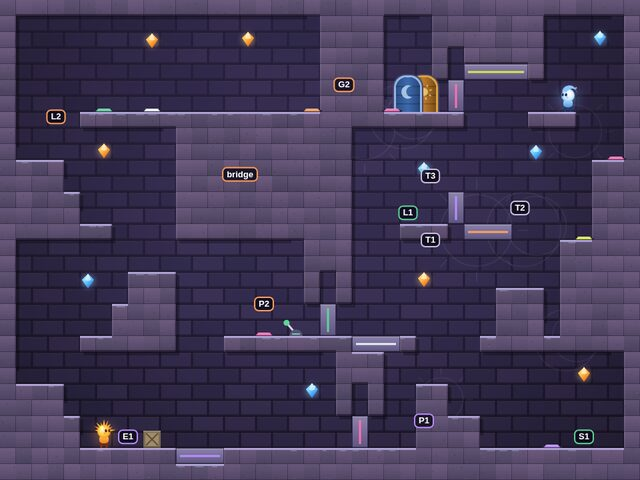
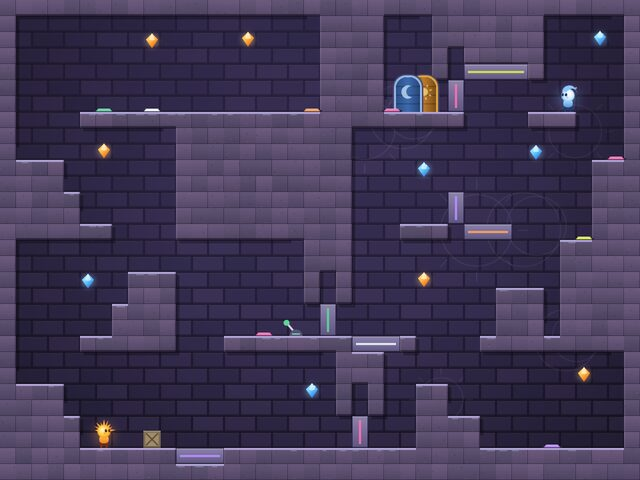
Level pictures: drop first-pass labels, regenerate 14, 19 and 26
tools/capture/index.html still tagged rooms 14, 19 and 26 with labels from
the first-pass rooms (E1, P1, bridge, refuge...), which point at nothing in
the rebuilt rooms. LABELS is now empty. docs/img/level-14/19/26.jpg are
regenerated with tools/capture.sh (CHROME=/usr/bin/chromium), and the three
-steps pictures of rooms that no longer exist are deleted, with their links
in docs/level-design.md.

diff --git a/tools/capture/index.html b/tools/capture/index.html
@@ -6,14 +6,9 @@ import { LEVELS } from '/shared/levels.js';
 import { buildLevel, createState, step, TS } from '/shared/sim.js';
 const q = new URLSearchParams(location.search);
 const n = +q.get('level'), k = q.has('state') ? +q.get('state') : -1;
-const LABELS = {
-  14: [[8, 27.3, 'E1', 0], [26.5, 26.3, 'P1', 0], [36.5, 27.3, 'S1', 1], [25.5, 13.3, 'L1', 1], [16.5, 19.0, 'P2', 2],
-       [21.5, 5.3, 'G2', 2], [15, 10.9, 'bridge', 2], [3.5, 7.3, 'L2', 2], [26.9, 15.0, 'T1', -1], [32.5, 13.0, 'T2', -1], [26.9, 11.0, 'T3', -1]],
-  19: [[5, 27.3, 'E0', 0], [25.5, 26.3, 'P0', 0], [28.5, 26.3, 'P1', 1], [7.5, 16.3, 'P0b', 0], [18.5, 13.3, 'G1', 1],
-       [25, 17.0, 'P2', 1], [31.5, 13.3, 'G2', 1], [11, 12.9, 'ledge', -1]],
-  26: [[11.5, 7.3, 'B', 1], [17.5, 7.3, 'A', 0], [21.5, 5.3, 'GW', 2], [33.5, 7.3, 'LR', 3], [27.5, 13.3, 'PF', 2],
-       [32, 21.0, 'E', 1], [34.5, 11.8, 'GX', 3], [12, 23.6, 'bridge 1', 0], [23.5, 23.6, 'bridge 2', 0], [17.5, 24.8, 'refuge', -1]],
-};
+// Optional tags per room: LABELS[n] = [[x, y, text, group], ...] in tiles (group -1 = grey).
+// The first-pass tags for rooms 14, 19 and 26 were removed on Nov 17, 2026: those rooms were rebuilt.
+const LABELS = {};
 const L = buildLevel(LEVELS[n - 1], n - 1);
 if (q.has('grid')) {
   const all = await (await fetch('/_cap/states.json')).json();

diff --git a/docs/playtest-2026-11-17.md b/docs/playtest-2026-11-17.md
@@ -116,9 +116,10 @@ the loser's line match. Log `tools/playtest/out/runner-browser.log`.
 **8. Stale labels on three regenerated level pictures.** `tools/capture/index.html` still has
 `LABELS` for the first-pass rooms 14, 19 and 26 (E1, P1, bridge, refuge and so on), so
 `docs/img/level-14.jpg`, `level-19.jpg` and `level-26.jpg` carry tags that point at nothing in the
-current rooms. `docs/img/level-14-steps.jpg`, `level-19-steps.jpg` and `level-26-steps.jpg` are
-from the old rooms too (only `docs/level-design.md`, already marked stale, links them). I left
-the capture page alone; deleting those `LABELS` entries and rerunning `ONLY="14 19 26"` fixes it.
+current rooms. The solution-step pictures for those three levels were from the old rooms too
+(only `docs/level-design.md`, already marked stale, linked them). I left the capture page alone;
+deleting those `LABELS` entries and rerunning `ONLY="14 19 26"` fixes it. (Fixed on
+`playtest-fixes`: labels removed, pictures regenerated, step pictures deleted.)
 
 **9. Stepping or jumping out of a pool pops the character up 10-18 px in one frame.** The 14 px
 step-up isn't smoothed. Level 1, tick 961: Luna jumps out of her moon pool and moves 18 px in one

diff --git a/docs/level-design.md b/docs/level-design.md
@@ -191,11 +191,8 @@ Luna starts between B and A, and the levers are placed so that any accidental fl
 
 The solo checker confirms every gem in all three rooms can be reached.
 
-Four moments from each bot run:
-
-![Helper's Way Out, solution steps](img/level-14-steps.jpg)
-![Carry the Weight, solution steps](img/level-19-steps.jpg)
-![Operator, solution steps](img/level-26-steps.jpg)
+The pictures of four moments from each bot run were deleted on Nov 17, 2026, because they showed
+rooms that no longer exist.
 
 ## 4. Second pass: no level can be finished alone
 
